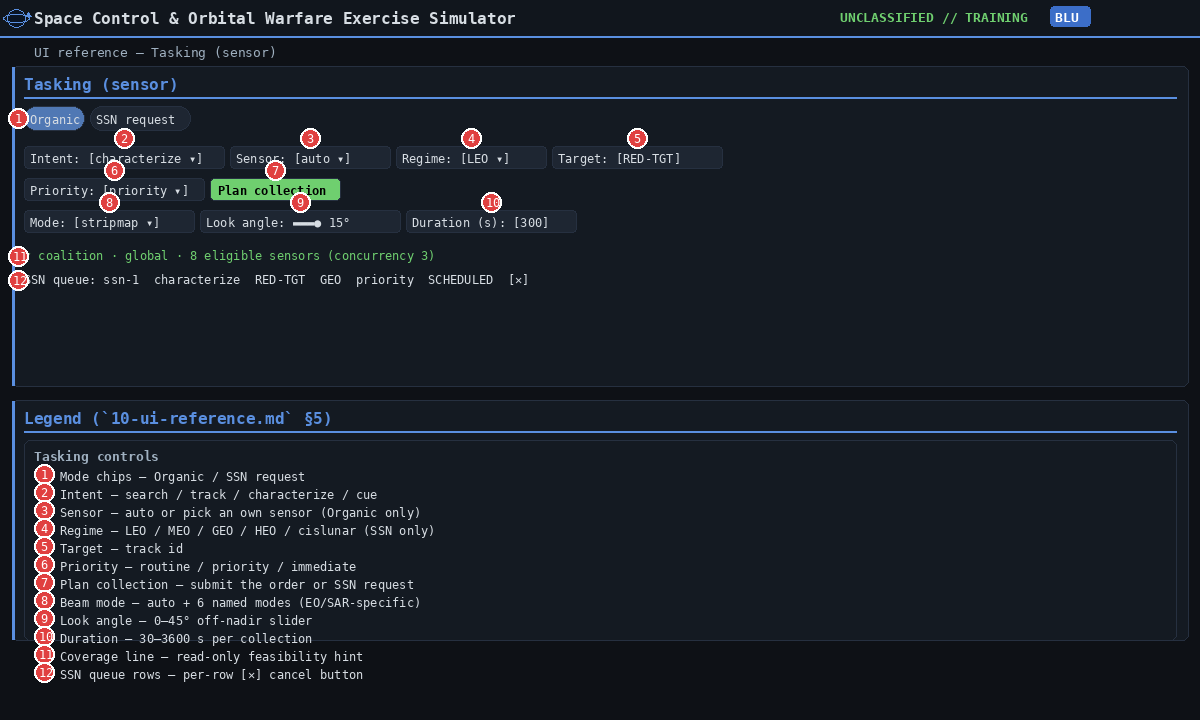
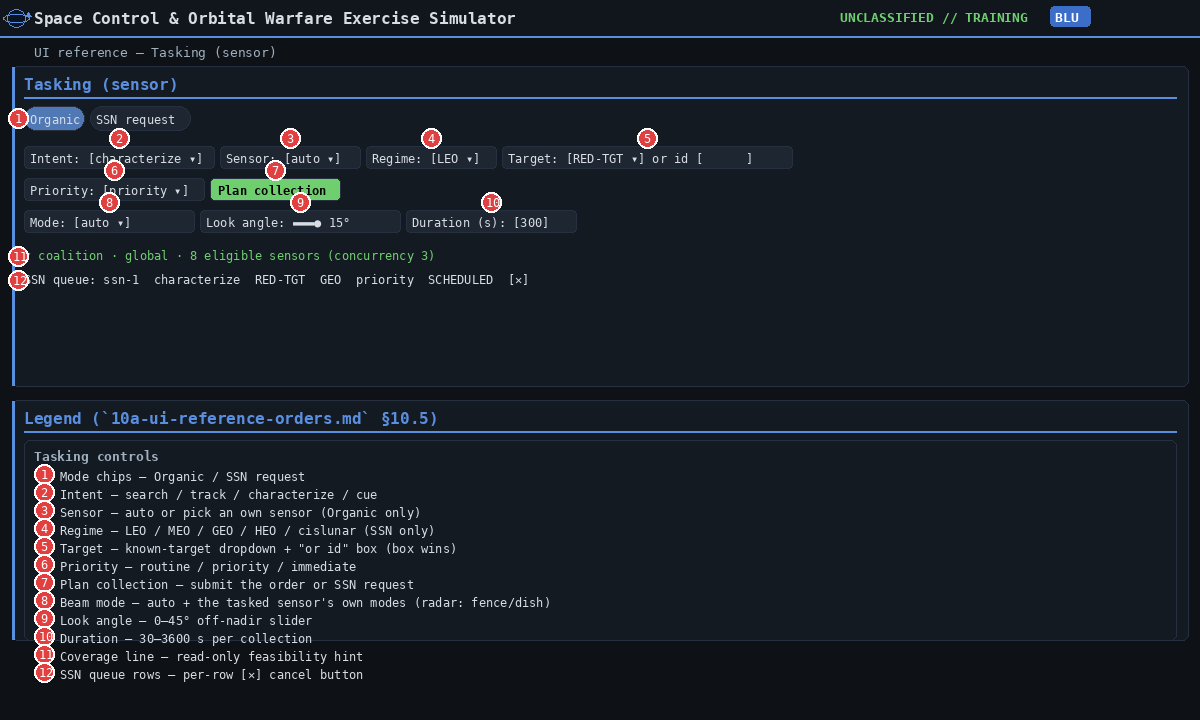
fix(ui,session): IP-1065 — White Cell console and session small fixes
BL-0266 activity timeline reports executed once a queued order's bar has ended (same rule as
list_orders); BL-0141 bulk import refuses a second object resolving to an asset id already
imported from the same file; BL-0196 vignette-inject Fire shows a rejection; BL-0267 vignette
picker groups external vignettes by origin (FR-5410); BL-0145 White-only Save-as-scenario
control; BL-0185 ref-05/ref-06 redrawn with the known-target picker; BL-0261 CLAUDE.md names
FR-6220's full no-cell set. 6 tests (5 failed first); full suite 1007 passed / 3 skipped;
gates green.

Claude-Session: https://claude.ai/code/session_01XhTU8g3o89cDKRN6tzpqjx

diff --git a/spacesim/ui_web/static/app.js b/spacesim/ui_web/static/app.js
@@ -196,7 +196,15 @@ async function loadVignettes() {
       sel.innerHTML = '<option value="" disabled selected>(no vignettes found — check server)</option>';
       return;
     }
-    sel.innerHTML = list.map((v) => `<option value="${esc(v.id)}">${esc(v.title)}</option>`).join("");
+    // IP-1065 (BL-0267, FR-5410) — built-in vignettes first, then one labelled optgroup per
+    // external directory (each entry's `origin`), so external content is a distinct group.
+    const opt = (v) => `<option value="${esc(v.id)}">${esc(v.title)}</option>`;
+    const builtIn = list.filter((v) => !v.origin || v.origin === "built-in");
+    const origins = [...new Set(list.filter((v) => v.origin && v.origin !== "built-in").map((v) => v.origin))];
+    sel.innerHTML = (origins.length
+      ? `<optgroup label="Built-in library">${builtIn.map(opt).join("")}</optgroup>`
+      : builtIn.map(opt).join(""))
+      + origins.map((o) => `<optgroup label="External: ${esc(o)}">${list.filter((v) => v.origin === o).map(opt).join("")}</optgroup>`).join("");
   } catch (e) {
     sel.innerHTML = '<option value="" disabled selected>(failed to load — is the server running?)</option>';
     console.error("loadVignettes failed:", e);
@@ -352,7 +360,30 @@ async function setServerClock(running) {
 }
 async function fireInject() {
   const id = $("inject-sel").value; if (!id || id === "(none)") return;
-  await api.post(`/api/sessions/${SID}/inject`, { inject: id }); await refresh();
+  const out = $("inject-result");
+  // IP-1065 (BL-0196) — a 400 (`inject rejected: …`) is shown, not thrown unhandled.
+  try {
+    await api.post(`/api/sessions/${SID}/inject`, { inject: id });
+    if (out) { out.style.color = ""; out.textContent = `✓ fired ${id}`; }
+  } catch (err) {
+    if (out) { out.style.color = "var(--red)"; out.textContent = "✗ server error: " + (err.message || err); }
+  }
+  await refresh();
+}
+
+// IP-1065 (BL-0145, FR-5510) — save this running session as a new starting vignette.
+async function saveAsScenario() {
+  const out = $("save-scenario-result");
+  if (!SID) { if (out) out.textContent = "No active session."; return; }
+  const vid = (prompt("New vignette id (letters, digits, - or _):") || "").trim();
+  if (!vid) return;
+  const title = (prompt("Title for the new vignette:", vid) || vid).trim();
+  try {
+    const r = await api.post(`/api/sessions/${SID}/save_vignette`, { vignette_id: vid, title, as_scenario: true });
+    if (out) { out.style.color = ""; out.textContent = `✓ saved ${r.path}`; }
+  } catch (err) {
+    if (out) { out.style.color = "var(--red)"; out.textContent = "✗ " + (err.message || err); }
+  }
 }
 
 // ---- FW §11.D.19 — Inject library + builder (White Cell) -----------------
@@ -2151,6 +2182,7 @@ window.addEventListener("DOMContentLoaded", () => {
     const st = await api.get(`/api/sessions/${SID}/clock`);
     await setServerClock(!st.running);
   };
+  if ($("save-scenario-btn")) $("save-scenario-btn").onclick = saveAsScenario;  // IP-1065
   $("fire-inject").onclick = fireInject; $("issue").onclick = issueOrder;
   // FW §11.D.19 — inject builder
   if ($("inject-lib-load")) $("inject-lib-load").onclick = loadInjectTemplate;

diff --git a/spacesim/ui_web/static/index.html b/spacesim/ui_web/static/index.html
@@ -52,6 +52,13 @@
           </div>
         </div>
         <div class="menu-section">
+          <div class="menu-head" title="Save this running session's current state as a new starting vignette (FR-5510). Needs content.user_save_dir in spacesim.config.yaml.">Save as scenario</div>
+          <div class="menu-item-row">
+            <button id="save-scenario-btn" class="white-only" title="Write the current tracks, resources, health and space weather as a new vignette that starts now">💾 Save as scenario…</button>
+          </div>
+          <div id="save-scenario-result" class="muted" style="font-size:11px"></div>
+        </div>
+        <div class="menu-section">
           <div class="menu-head">Observer</div>
           <label class="menu-item-inline" title="What the read-only Observer seat sees (FR-6510) — reused unmodified from White's godview or the named cell's own fog-of-war view">View
             <select id="observer-designation">
@@ -254,6 +261,8 @@
         <select id="inject-sel"></select>
         <button id="fire-inject" title="Fire the selected vignette inject immediately">Fire</button>
       </div>
+      <!-- IP-1065 (BL-0196): a rejected Fire shows the server's reason here. -->
+      <pre id="inject-result" class="muted" style="font-size:11px;margin-top:4px"></pre>
       <!-- FW §11.D.19 — Inject library + builder.  Pick a template, edit any field,
            set a schedule (now or future timestamp), then fire. -->
       <details id="inject-builder" style="margin-top:6px">

diff --git a/spacesim/tests/test_console_small_fixes.py b/spacesim/tests/test_console_small_fixes.py
@@ -1,0 +1,95 @@
+"""IP-1065 — White Cell console and session small fixes.
+
+- BL-0266: the activity timeline reports a queued order whose bar has ended as ``executed``,
+  matching ``SessionManager.list_orders()`` (before, ``Order.status`` was passed through and a
+  past order drew as a dashed queued bar for ever).
+- BL-0141: a bulk-import file with two objects resolving to one asset id keeps the first and
+  refuses the second (before, the second silently overwrote the first and both reported ok).
+- BL-0196 / BL-0267 / BL-0145: console changes the headless suite cannot drive, checked by the
+  repository's static-asset assertion pattern (the browser GUI is unverified headless).
+"""
+from __future__ import annotations
+
+from pathlib import Path
+
+from spacesim.engine.orders import Order
+from spacesim.session.inprocess import InProcessSession
+
+STATIC = Path(__file__).resolve().parents[1] / "ui_web" / "static"
+_TLE1 = "1 25544U 98067A   24001.50000000  .00016717  00000-0  10270-3 0  9994"
+_TLE2 = "2 25544  51.6416 247.4627 0006703 130.5360 325.0288 15.49560570999999"
+_TLE2_B = "2 25544  97.6416 100.4627 0006703 130.5360 325.0288 15.09560570999999"
+
+
+def _downlink_session():
+    api = InProcessSession()
+    sid = api.load_vignette("training-basics")
+    api.start(sid)
+    mgr = api._sessions[sid]
+    mgr.set_clock(False)
+    sat = next(a for a in mgr.world.assets.values() if a.owner == "blue" and a.orbit is not None)
+    gs = next(a for a in mgr.world.assets.values() if a.owner == "blue" and a.location is not None)
+    ack = mgr.issue_order("blue", Order(cell="blue", actor=sat.id, action="downlink",
+                                        params={"via": gs.id}))
+    assert ack.ok and ack.status == "queued", ack.reason
+    return api, sid, mgr, ack, sat.id
+
+
+def _bar(api, sid, actor):
+    feed = api.cell_activity(sid, "blue", past_window_s=6 * 3600, future_window_s=6 * 3600)
+    return [a for a in feed["activities"] if a["kind"] == "order" and a["actor"] == actor]
+
+
+def test_activity_reports_executed_once_the_bar_has_ended():
+    api, sid, mgr, ack, actor = _downlink_session()
+    (before,) = _bar(api, sid, actor)
+    assert before["status"] == "queued"
+    mgr.advance_to(before["end"] + 1_000_000)
+    (after,) = _bar(api, sid, actor)
+    assert after["status"] == "executed"
+    # Same rule as the order queue's display label.
+    (row,) = [o for o in mgr.list_orders("blue") if o["id"] == ack.id]
+    assert row["status"] == "executed"
+
+
+def test_activity_reports_active_while_the_bar_straddles_now():
+    api, sid, mgr, ack, actor = _downlink_session()
+    (before,) = _bar(api, sid, actor)
+    mgr.advance_to(before["start"] + 1_000_000)
+    (during,) = _bar(api, sid, actor)
+    assert during["status"] == "active"
+
+
+def test_bulk_import_duplicate_asset_id_in_one_file_keeps_the_first():
+    api = InProcessSession()
+    sid = api.load_vignette("leo-isr-denial", seed=1)
+    mgr = api._sessions[sid]
+    text = "\n".join(["FIRST", _TLE1, _TLE2, "SECOND", _TLE1, _TLE2_B])
+    reports = mgr.bulk_import("tle", text, {"FIRST": {"asset_id": "DUP-1", "owner": "blue"},
+                                            "SECOND": {"asset_id": "DUP-1", "owner": "blue"}})
+    assert [r["ok"] for r in reports] == [True, False]
+    assert "FIRST" in reports[1]["reason"] and "DUP-1" in reports[1]["reason"]
+    assert mgr.world.assets["DUP-1"].orbit.tle_line2 == _TLE2  # the first object's orbit kept
+
+
+def test_fire_inject_reports_a_rejection():
+    js = (STATIC / "app.js").read_text(encoding="utf-8")
+    start = js.index("async function fireInject")
+    body = js[start:js.index("\n}\n", start)]
+    assert "catch" in body and "inject-result" in body
+
+
+def test_vignette_picker_groups_by_origin():
+    js = (STATIC / "app.js").read_text(encoding="utf-8")
+    start = js.index("async function loadVignettes")
+    body = js[start:js.index("\n}\n", start)]
+    assert "origin" in body and "optgroup" in body
+
+
+def test_save_as_scenario_console_control_is_white_only():
+    html = (STATIC / "index.html").read_text(encoding="utf-8")
+    js = (STATIC / "app.js").read_text(encoding="utf-8")
+    i = html.index('id="save-scenario-btn"')
+    tag = html[html.rindex("<", 0, i):html.index(">", i)]
+    assert "white-only" in tag
+    assert "as_scenario: true" in js

diff --git a/tools/render_manual.py b/tools/render_manual.py
@@ -1467,8 +1467,9 @@ def s_ref_tasking():
     callout(d, px - 6, py + 12, 1)
     # Row 1
     y1 = py + 40
-    fields1 = [("Intent: [characterize ▾]", 200, 2), ("Sensor: [auto ▾]", 160, 3),
-               ("Regime: [LEO ▾]", 150, 4), ("Target: [RED-TGT]", 170, 5)]
+    # IP-1065 (BL-0185): Target is a known-target dropdown plus an "or id" box, as shipped.
+    fields1 = [("Intent: [characterize ▾]", 190, 2), ("Sensor: [auto ▾]", 140, 3),
+               ("Regime: [LEO ▾]", 130, 4), ("Target: [RED-TGT ▾] or id [      ]", 290, 5)]
     cx = px
     for lbl, w, n in fields1:
         d.rounded_rectangle([cx, y1, cx + w, y1 + 22], radius=4, fill=(30,38,50), outline=BORDER)
@@ -1486,7 +1487,7 @@ def s_ref_tasking():
     d.text((cx + 8, y2 + 5), "Plan collection", font=f12b, fill=(0,0,0)); callout(d, cx + 65, y2 - 8, 7)
     # Row 3 (ISR params)
     y3 = y2 + 32
-    fields3 = [("Mode: [stripmap ▾]", 170, 8), ("Look angle: ▬▬▬● 15°", 200, 9), ("Duration (s): [300]", 170, 10)]
+    fields3 = [("Mode: [auto ▾]", 170, 8), ("Look angle: ▬▬▬● 15°", 200, 9), ("Duration (s): [300]", 170, 10)]
     cx = px
     for lbl, w, n in fields3:
         d.rounded_rectangle([cx, y3, cx + w, y3 + 22], radius=4, fill=(30,38,50), outline=BORDER)
@@ -1500,16 +1501,16 @@ def s_ref_tasking():
     d.text((px, y5), "SSN queue: ssn-1  characterize  RED-TGT  GEO  priority  SCHEDULED  [✕]", font=f12, fill=TEXT)
     callout(d, px - 6, y5 + 8, 12)
 
-    lx, ly = panel(d, 12, 400, W - 24, 240, "Legend (`10-ui-reference.md` §5)")
+    lx, ly = panel(d, 12, 400, W - 24, 240, "Legend (`10a-ui-reference-orders.md` §10.5)")
     legend(d, lx, ly, W - 48, 200, "Tasking controls", [
         (1, "Mode chips — Organic / SSN request"),
         (2, "Intent — search / track / characterize / cue"),
         (3, "Sensor — auto or pick an own sensor (Organic only)"),
         (4, "Regime — LEO / MEO / GEO / HEO / cislunar (SSN only)"),
-        (5, "Target — track id"),
+        (5, "Target — known-target dropdown + \"or id\" box (box wins)"),
         (6, "Priority — routine / priority / immediate"),
         (7, "Plan collection — submit the order or SSN request"),
-        (8, "Beam mode — auto + 6 named modes (EO/SAR-specific)"),
+        (8, "Beam mode — auto + the tasked sensor's own modes (radar: fence/dish)"),
         (9, "Look angle — 0–45° off-nadir slider"),
         (10, "Duration — 30–3600 s per collection"),
         (11, "Coverage line — read-only feasibility hint"),
@@ -1535,8 +1536,8 @@ def s_ref_compose():
     y1 = py + 36
     fields = [("Actor: [ISR-EO-1 ▾]", 200, 2),
               ("Action: [observe ▾]",  170, 3),
-              ("Target: [RED-TGT]",    180, 4),
-              ("Params: {\"intent\":\"characterize\"}", 320, 5)]
+              ("Target: [RED-TGT ▾] or id [    ]", 260, 4),
+              ("Params: {\"intent\":\"characterize\"}", 280, 5)]
     cx = px
     for lbl, w, n in fields:
         d.rounded_rectangle([cx, y1, cx + w, y1 + 22], radius=4, fill=(30,38,50), outline=BORDER)
@@ -1565,12 +1566,12 @@ def s_ref_compose():
     d.text((px, y6), "Queue: ord-3 ISR-EO-1 observe RED-TGT  ground_uplink  queued  [✕]", font=f12, fill=TEXT)
     callout(d, px - 6, y6 + 6, 13)
 
-    lx, ly = panel(d, 12, 460, W - 24, 200, "Legend (`10-ui-reference.md` §6)")
+    lx, ly = panel(d, 12, 460, W - 24, 200, "Legend (`10a-ui-reference-orders.md` §10.6)")
     legend(d, lx, ly, W - 48, 160, "Satellite command controls", [
         (1, "Role filter chips — All / Bus / Payload / SDA"),
         (2, "Actor — own assets (filtered by role chip)"),
         (3, "Action — legal actions for the actor's kind"),
-        (4, "Target — string (track id, station id, …)"),
+        (4, "Target — known-target dropdown + \"or id\" box (jam/engage/cyber/observe only)"),
         (5, "Params — JSON; pre-filled per action; live dry-run"),
         (6, "Validity preview — ✓ queue / ✗ reason (read-only)"),
         (7, "Consequence preview — severity / esc / reversible / attr"),

diff --git a/spacesim/session/manager.py b/spacesim/session/manager.py
@@ -521,6 +521,7 @@ class SessionManager:
         from spacesim.content.bulk_import import parse_ccsds_omm, parse_multi_tle
         objects = parse_multi_tle(content) if file_format == "tle" else parse_ccsds_omm(content)
         reports: list[dict] = []
+        imported_as: dict[str, str] = {}   # IP-1065 (BL-0141) — asset id → raw id, this file only
         for obj in objects:
             raw_id = obj["raw_id"]
             assignment = assignments.get(raw_id)
@@ -529,12 +530,19 @@ class SessionManager:
                                  "reason": "no side/template assignment provided"})
                 continue
             asset_id = assignment.get("asset_id", raw_id)
+            if asset_id in imported_as:
+                reports.append({"raw_id": raw_id, "asset_id": asset_id, "ok": False,
+                                 "reason": f"duplicate asset id {asset_id!r} in this file: already "
+                                           f"imported from {imported_as[asset_id]!r}"})
+                continue
             owner = assignment.get("owner", "blue")
             kind = assignment.get("kind", "satellite")
             if obj["format"] == "tle":
                 ok, reason = self._force_add_tle_object(asset_id, obj["line1"], obj["line2"], owner, kind)
             else:
                 ok, reason = self._force_add_omm_object(asset_id, obj, owner, kind)
+            if ok:
+                imported_as[asset_id] = raw_id
             reports.append({"raw_id": raw_id, "asset_id": asset_id, "ok": ok, "reason": reason})
         return reports
 

diff --git a/spacesim/session/inprocess.py b/spacesim/session/inprocess.py
@@ -595,6 +595,10 @@ class InProcessSession:
             status = o.status
             if status == "queued" and start <= now <= end:
                 status = "active"   # the bar straddles now → currently executing
+            elif status == "queued" and o.earliest_window is not None and now > end:
+                # IP-1065 (BL-0266) — the window has passed, so the order has executed: the same
+                # derived label `SessionManager.list_orders()` shows (`Order.status` never holds it).
+                status = "executed"
             activities.append({
                 "kind": "order",
                 "cell": o.cell,

diff --git a/docs/requirements/03-requirements-traceability-matrix.md b/docs/requirements/03-requirements-traceability-matrix.md
@@ -204,7 +204,7 @@ Forward traces: Future Feature · Test · Implementation Package.
 | FR-4110 | White Cell exercise-control leaf | UNASSIGNED | (none directly) | C4, C6 | INT-0002 | UNASSIGNED | `test_content.py::test_vignette_1_loads_and_builds_a_world`, `test_content.py::test_parameter_override_flows_into_roe`, `test_web.py::test_ssn_endpoint_available` *(closed 2026-07-03 via IP-1150, VR-1150)* | `IP-1150` *(closed 2026-07-03 via VR-1150)* |
 | FR-4210 | Seat-to-role assignment | UNASSIGNED | (none directly) | C4, C6 | INT-0002 | UNASSIGNED | `tests/test_session_setup.py` | `IP-1151` *(closed 2026-07-04 via VR-1151)* |
 | FR-4310 | Pause / resume clock control | UNASSIGNED | ADR-0016 | C4, C6 | INT-0002 | UNASSIGNED | `spacesim/tests/test_session.py` *(VR-1060)* | `IP-1060` *(closed 2026-07-04 via VR-1060)* |
-| FR-4410 | Inject authoring / firing | UNASSIGNED | ADR-0005 | C4, C6, C1 | INT-0002, INT-0016 | UNASSIGNED | `spacesim/tests/test_inject_library.py` (incl. `test_time_inject_at_zero_fires_at_start`, `test_rewind_does_not_refire_fired_inject`, `test_rewind_to_start_before_first_advance_keeps_zero_inject`, `test_space_weather_invalid_severity_coerced`, `test_space_weather_clear_alias_and_message` — `IP-1061`), `spacesim/tests/test_session.py` *(VR-1060)*, `spacesim/tests/test_inject_effects_v2.py` (IP-1063: `test_validator_flags_malformed_effects`, `test_validator_accepts_well_formed_fr4430_effects`, `test_fire_inject_rejects_anomaly_on_bus_less_asset_and_changes_nothing`, `test_fire_inject_is_atomic_on_a_partly_invalid_inject`, `test_handler_skips_malformed_effect_without_raising`, `test_skip_path_replays_identically`, `test_all_shipped_injects_and_library_templates_validate_clean`), `spacesim/tests/test_web.py::test_inject_route_rejects_invalid_inject_400` | `IP-1060` *(closed 2026-07-04 via VR-1060)*, `IP-1061` (2026-09-26 — `BL-0062`–`BL-0064` remediation; `VERIFIED` 2026-09-27 via `VR-1061`), `IP-1063` (2026-10-11 — `BL-0129`/`BL-0188` inject fire-time validation, `spacesim/session/manager.py` `validate_inject_effects`; `COMPLETE`, awaiting `09-package-verification`) |
+| FR-4410 | Inject authoring / firing | UNASSIGNED | ADR-0005 | C4, C6, C1 | INT-0002, INT-0016 | UNASSIGNED | `spacesim/tests/test_inject_library.py` (incl. `test_time_inject_at_zero_fires_at_start`, `test_rewind_does_not_refire_fired_inject`, `test_rewind_to_start_before_first_advance_keeps_zero_inject`, `test_space_weather_invalid_severity_coerced`, `test_space_weather_clear_alias_and_message` — `IP-1061`), `spacesim/tests/test_session.py` *(VR-1060)*, `spacesim/tests/test_inject_effects_v2.py` (IP-1063: `test_validator_flags_malformed_effects`, `test_validator_accepts_well_formed_fr4430_effects`, `test_fire_inject_rejects_anomaly_on_bus_less_asset_and_changes_nothing`, `test_fire_inject_is_atomic_on_a_partly_invalid_inject`, `test_handler_skips_malformed_effect_without_raising`, `test_skip_path_replays_identically`, `test_all_shipped_injects_and_library_templates_validate_clean`), `spacesim/tests/test_web.py::test_inject_route_rejects_invalid_inject_400`, `spacesim/tests/test_console_small_fixes.py::test_fire_inject_reports_a_rejection` *(IP-1065)* | `IP-1060` *(closed 2026-07-04 via VR-1060)*, `IP-1061` (2026-09-26 — `BL-0062`–`BL-0064` remediation; `VERIFIED` 2026-09-27 via `VR-1061`), `IP-1063` (2026-10-11 — `BL-0129`/`BL-0188` inject fire-time validation, `spacesim/session/manager.py` `validate_inject_effects`; `COMPLETE`, awaiting `09-package-verification`); IP-1065 *(COMPLETE 2026-10-17 — `app.js` `fireInject` shows a rejection; awaiting `09`)* |
 | FR-4420 *(new 2026-09-26, `BL-0070`/B4; Precondition amended 2026-10-17, `BL-0130`)* | Condition-triggered injects, evaluated deterministically | UNASSIGNED | ADR-0002, ADR-0005, ADR-0006 | C2, C1 | INT-0016 | FS-106 | `spacesim/tests/test_condition_triggered_injects.py` | IP-1062 *(VERIFIED 2026-09-28 via `VR-1062` v2.0, second pass)* |
 | FR-4430 *(new 2026-09-26, `BL-0070`/B4)* | New inject effect types (anomaly, sensor outage, custody loss, scripted manoeuvre) | UNASSIGNED | ADR-0004, ADR-0005 | C2, C1 | INT-0016 | FS-106 | `spacesim/tests/test_inject_effects_v2.py`, `spacesim/tests/test_inject_effects_v2.py` (IP-1063: `test_validator_flags_malformed_effects`, `test_validator_accepts_well_formed_fr4430_effects`, `test_fire_inject_rejects_anomaly_on_bus_less_asset_and_changes_nothing`, `test_fire_inject_is_atomic_on_a_partly_invalid_inject`, `test_handler_skips_malformed_effect_without_raising`, `test_skip_path_replays_identically`, `test_all_shipped_injects_and_library_templates_validate_clean`), `spacesim/tests/test_web.py::test_inject_route_rejects_invalid_inject_400` | IP-1062 *(VERIFIED 2026-09-28 via `VR-1062` v2.0, second pass — the v1.0 `anomaly`/bus H1 defect (`BL-0128`) is fixed: `enter_safe_mode()`/`exit_safe_mode()` are now called, independently reconfirmed including `begin_recovery` acceptance. `BL-0129` (malformed-payload mid-handler exception) remains open, tracked separately)*, `IP-1063` (2026-10-11 — `BL-0129`/`BL-0188` inject fire-time validation, `spacesim/session/manager.py` `validate_inject_effects`; `COMPLETE`, awaiting `09-package-verification`) |
 | FR-4440 *(new 2026-09-27, `BL-0074`/B8)* | Space-weather-index-driven anomaly rate scaling | R131 | ADR-0002, ADR-0006 | C2, C1 | INT-0016 | UNASSIGNED | UNASSIGNED | UNASSIGNED |
@@ -223,15 +223,15 @@ Forward traces: Future Feature · Test · Implementation Package.
 | FR-5170 | Typed per-payload-type parameter sub-schemas | R109, R110, R129, R134, R137 | (none directly) | C1, C5 | (none — Domain Model/content-schema extension) | FS-117 | `spacesim/tests/test_isr.py` (weather/mw `BEAM_MODES` precondition, `IP-1170`, `VERIFIED`), `spacesim/tests/test_typed_payload_params.py` (all 12 tests — the 8 typed sub-models + auto-population + all-19-vignettes regression, `IP-1171`, `VERIFIED`) | IP-1170 *(`VERIFIED` — closes the weather/mw engine-precondition slice, `BL-0053`)*, IP-1171 *(`VERIFIED` 2026-07-12, `VR-1171` — closes the typed-sub-schema/UI-facing scope)* |
 | FR-5180 | Typed bus parameter sub-schemas (power/propulsion) | R111, R112 | (none directly) | C1, C5 | (none directly) | FS-117 | `spacesim/tests/test_typed_payload_params.py::test_bus_power_and_propulsion_overrides_reach_live_fields_not_power_w` *(IP-1171, `VERIFIED`; confirms `Asset.model_validate()` already routes overrides to the live fields, no loader change needed)* | IP-1171 *(`VERIFIED` 2026-07-12, `VR-1171`)* |
 | FR-5210 | TLE force-add import | UNASSIGNED | ADR-0018 | C5, C10 | INT-0013 | UNASSIGNED | UNASSIGNED | `content/` (TLE import) |
-| FR-5220 *(new 2026-09-26, `BL-0067`/B1)* | Bulk TLE and CCSDS OMM multi-object import | UNASSIGNED | ADR-0018 | C5, C10 | INT-0013 *(stretched shape — see `reviews/requirements-update-must-tier-batch.md` Finding 5)* | FS-119 | `spacesim/tests/test_bulk_import.py`, `spacesim/tests/test_bulk_import_session.py`, `spacesim/tests/test_orbit.py::test_mean_to_true_*`, `spacesim/tests/test_web.py::test_bulk_import_tle_route_end_to_end` | IP-1190 *(`VERIFIED` 2026-09-27 via `VR-1190`)* |
+| FR-5220 *(new 2026-09-26, `BL-0067`/B1)* | Bulk TLE and CCSDS OMM multi-object import | UNASSIGNED | ADR-0018 | C5, C10 | INT-0013 *(stretched shape — see `reviews/requirements-update-must-tier-batch.md` Finding 5)* | FS-119 | `spacesim/tests/test_bulk_import.py`, `spacesim/tests/test_bulk_import_session.py`, `spacesim/tests/test_orbit.py::test_mean_to_true_*`, `spacesim/tests/test_web.py::test_bulk_import_tle_route_end_to_end`, `spacesim/tests/test_console_small_fixes.py::test_bulk_import_duplicate_asset_id_in_one_file_keeps_the_first` *(IP-1065)* | IP-1190 *(`VERIFIED` 2026-09-27 via `VR-1190`)*; IP-1065 *(COMPLETE 2026-10-17 — `SessionManager.bulk_import` per-file duplicate refusal; awaiting `09`)* |
 | FR-5310 | Vignette loading | UNASSIGNED | ADR-0007 | C2, C5 | INT-0011 | FS-131 *(2026-10-16)* | `spacesim/tests/test_vignette_load_validation.py` *(IP-1310; template clause still open, `BL-0233`)* | `content/vignette.py` (`validate_vignette`, `VignetteValidationError`, `load_vignette`), `session/inprocess.py` (`load_vignette`), `ui_web/server.py` (`_vignette_load_errors`), `static/app.js` (`loadSession`) — IP-1310 |
 | FR-5311 *(new 2026-10-16, `BL-0235`)* | TLE-sourced orbits parse at load | UNASSIGNED | ADR-0007 | C5, C1 | INT-0011 | FS-131 | `spacesim/tests/test_vignette_load_validation.py::test_malformed_tle_refused_naming_asset`, `::test_good_tle_loads` | `content/vignette.py` (`validate_vignette`) — IP-1310 |
 | FR-5312 *(new 2026-10-16, `BL-0234`; amended run #144, `BL-0241`)* | Space assets carry an orbit, non-cyber terrestrial assets a location | UNASSIGNED | ADR-0007, ADR-0012 | C5 | INT-0011 | FS-131 (v1.1) | `spacesim/tests/test_vignette_load_validation.py::test_satellite_without_orbit_refused`, `::test_jammer_without_location_refused`, `::test_cyber_unit_without_location_loads` | `content/vignette.py` (`validate_vignette`) — IP-1310 |
 | FR-5313 *(new 2026-10-16, `BL-0234`)* | Unique asset/sensor identifiers within a vignette | UNASSIGNED | ADR-0007 | C5 | INT-0011 | FS-131 | `spacesim/tests/test_vignette_load_validation.py::test_duplicate_asset_id_across_forces_refused`, `::test_duplicate_sensor_id_refused` | `content/vignette.py` (`validate_vignette`) — IP-1310 |
 | FR-5314 *(new 2026-10-16, `BL-0234`)* | `roles_needed` names a declared asset or group | UNASSIGNED | ADR-0007 | C5, C2 | INT-0011 | FS-131 | `spacesim/tests/test_vignette_load_validation.py::test_roles_needed_unknown_reference_refused`, `::test_roles_needed_asset_and_group_references_load` | `content/vignette.py` (`validate_vignette`) — IP-1310 |
-| FR-5410 *(new 2026-09-26, `BL-0082`/B16)* | Load vignettes from configured external directories | UNASSIGNED | ADR-0007, ADR-0018 | C2, C5 | INT-0011 | FS-118 | `spacesim/tests/test_content.py` (external-directory enumeration/collision/traversal tests) | IP-1180 *(`VERIFIED` 2026-09-27 via `VR-1180`)* |
+| FR-5410 *(new 2026-09-26, `BL-0082`/B16)* | Load vignettes from configured external directories | UNASSIGNED | ADR-0007, ADR-0018 | C2, C5 | INT-0011 | FS-118 | `spacesim/tests/test_content.py` (external-directory enumeration/collision/traversal tests), `spacesim/tests/test_console_small_fixes.py::test_vignette_picker_groups_by_origin` *(IP-1065)* | IP-1180 *(`VERIFIED` 2026-09-27 via `VR-1180`)*; IP-1065 *(COMPLETE 2026-10-17 — `app.js` `loadVignettes` groups by `origin`; awaiting `09`)* |
 | FR-5420 *(new 2026-09-26, `BL-0082`/B16)* | `save_vignette` writes only to a configured user directory | UNASSIGNED | ADR-0007, ADR-0022 | C2, C5 | INT-0011, INT-0012 | FS-118 | `spacesim/tests/test_vignette_export.py` | IP-1180 *(`VERIFIED` 2026-09-27 via `VR-1180`)* |
-| FR-5510 *(new 2026-09-26, `BL-0071`/B5)* | Save a running session's current state as a new starting vignette | UNASSIGNED | ADR-0022, ADR-0007 | C2, C5, C11 | INT-0011, INT-0012 | FS-120 | `spacesim/tests/test_vignette_export.py`, `spacesim/tests/test_vignette_creator_session.py`, `spacesim/tests/test_web.py::test_save_as_scenario_route_end_to_end` | IP-1200 *(`VERIFIED` 2026-09-27 via `VR-1200`)* |
+| FR-5510 *(new 2026-09-26, `BL-0071`/B5)* | Save a running session's current state as a new starting vignette | UNASSIGNED | ADR-0022, ADR-0007 | C2, C5, C11 | INT-0011, INT-0012 | FS-120 | `spacesim/tests/test_vignette_export.py`, `spacesim/tests/test_vignette_creator_session.py`, `spacesim/tests/test_web.py::test_save_as_scenario_route_end_to_end`, `spacesim/tests/test_console_small_fixes.py::test_save_as_scenario_console_control_is_white_only` *(IP-1065)* | IP-1200 *(`VERIFIED` 2026-09-27 via `VR-1200`)*; IP-1065 *(COMPLETE 2026-10-17 — White-only Session-menu control; awaiting `09`)* |
 | FR-6110 | SessionAPI seam (base) | UNASSIGNED | ADR-0002, ADR-0003 | C4, C2 | INT-0006 | UNASSIGNED | UNASSIGNED | `session/api.py` |
 | FR-6210 | Fog-of-war filtering | UNASSIGNED | ADR-0004 | C4, C2, C1 | INT-0006, INT-0007 | UNASSIGNED | `spacesim/tests/test_scene.py` *(VR-1030 — `IP-1030`'s own `scene.py` custody-track filter contribution to this boundary; the boundary mechanism itself is `session/cells.py`'s, not this package's)* | `session/cells.py` |
 | FR-6220 *(named set enumerated 2026-10-17, `BL-0138`)* | Documented no-cell ground-truth exception | UNASSIGNED | ADR-0004, ADR-0015 | C4, C12, C9 | INT-0001, INT-0005 | UNASSIGNED | UNASSIGNED | `session/cells.py` |

diff --git a/docs/implementation/00-master-build-plan.md b/docs/implementation/00-master-build-plan.md
@@ -158,7 +158,7 @@ package in this plan to reach that state.
 | [IP-1311](packages/IP-1311-vignette-id-scan-robustness.md) | FS-131 v1.1 `FR-5310`/`NFR-1600` Vignette Id Scan Robustness — `load_vignette`'s built-in and external declared-id scans share one helper that skips a file it cannot read, parse, or find a mapping `vignette` block in, so one bad file never turns an unknown id into a 500 or blocks a valid later-sorting vignette (`BL-0252`, REV-TRN-008 F2) | Remediation (forward design) | 🟢 READY | **Authored 2026-10-17** (`07-implementation-planning`, pipeline run #158). Dependencies `IP-1310` and `IP-1180` both `VERIFIED`. **Pre-authorized by the project owner (MSTR-006 §3, standing 2026-10-11 pre-authorization).** |
 | [IP-1021](packages/IP-1021-failure-atomic-event-application.md) | FS-102 v1.1 + ADR-0038 `FR-1120`/`NFR-1600`/`NFR-2600` Failure-Atomic Event Application — a raising handler is rolled back to the replayed state, logged as a no-op failure record, and the advance continues (`BL-0264`, from `BL-0227`) | Remediation (forward design) | 🔵 COMPLETE | **COMPLETE 2026-10-17** (pipeline run #167): failure-atomic `advance_to` + no-op `handler_error` record; 7 tests (all failed first); full suite 992 passed / 3 skipped; both gates green. Awaiting `09-package-verification` from a different session. **IN PROGRESS 2026-10-17** (pipeline run #167, `08-code-implementation`; baseline full suite 985 passed / 3 skipped). **Authored 2026-10-17** (`07-implementation-planning`, pipeline run #166, owner-prioritized `DEFERRED` clearance). Dependencies IP-1020 `VERIFIED`. **Pre-authorized by the project owner (MSTR-006 §3, standing 2026-10-11 pre-authorization).** |
 | [IP-1064](packages/IP-1064-condition-inject-follow-ups.md) | FS-106 v2.1 `FR-4420`/`NFR-1100` Condition-Triggered Inject Follow-Ups — measured value in the firing record, start-anchored tick grids after a rewind, one log scan per tick (`BL-0131`/`BL-0132`/`BL-0133`) | Remediation (forward design) | 🟢 READY | **Authored 2026-10-17** (`07-implementation-planning`, pipeline run #166, owner-prioritized `DEFERRED` clearance). Dependencies IP-1062 `VERIFIED`. **Pre-authorized by the project owner (MSTR-006 §3, standing 2026-10-11 pre-authorization).** |
-| [IP-1065](packages/IP-1065-console-and-session-small-fixes.md) | FS-106/FS-102 v1.1/FS-118 v1.1/FS-120/FS-119 `FR-4410`/`FR-3310`/`FR-5410`/`FR-5510`/`FR-5220`/`NFR-3400` White Cell Console and Session Small Fixes — Fire reports rejections, timeline shows executed, picker groups external vignettes, save-as-scenario control, bulk-import duplicate ids refused, ref-05/06 redrawn, CLAUDE.md no-cell list (`BL-0196`/`0266`/`0267`/`0145`/`0141`/`0185`/`0261`) | Remediation (forward design) | 🔵 IN PROGRESS | **IN PROGRESS 2026-10-17** (pipeline run #169, `08-code-implementation`; baseline full suite 1001 passed / 3 skipped). **Authored 2026-10-17** (`07-implementation-planning`, pipeline run #166, owner-prioritized `DEFERRED` clearance). Dependencies IP-1063/IP-1180/IP-1190/IP-1200 `VERIFIED`. **Pre-authorized by the project owner (MSTR-006 §3, standing 2026-10-11 pre-authorization).** |
+| [IP-1065](packages/IP-1065-console-and-session-small-fixes.md) | FS-106/FS-102 v1.1/FS-118 v1.1/FS-120/FS-119 `FR-4410`/`FR-3310`/`FR-5410`/`FR-5510`/`FR-5220`/`NFR-3400` White Cell Console and Session Small Fixes — Fire reports rejections, timeline shows executed, picker groups external vignettes, save-as-scenario control, bulk-import duplicate ids refused, ref-05/06 redrawn, CLAUDE.md no-cell list (`BL-0196`/`0266`/`0267`/`0145`/`0141`/`0185`/`0261`) | Remediation (forward design) | 🔵 COMPLETE | **COMPLETE 2026-10-17** (pipeline run #169): timeline `executed`, bulk-import duplicate refusal, Fire shows rejections, picker optgroups by origin, White-only save-as-scenario control, ref-05/06 redrawn, CLAUDE.md no-cell set; 6 tests (5 failed first); full suite 1007 passed / 3 skipped; gates green. Manual impact filed. Awaiting `09-package-verification` (different session). **IN PROGRESS 2026-10-17** (pipeline run #169, `08-code-implementation`; baseline full suite 1001 passed / 3 skipped). **Authored 2026-10-17** (`07-implementation-planning`, pipeline run #166, owner-prioritized `DEFERRED` clearance). Dependencies IP-1063/IP-1180/IP-1190/IP-1200 `VERIFIED`. **Pre-authorized by the project owner (MSTR-006 §3, standing 2026-10-11 pre-authorization).** |
 | [IP-1131](packages/IP-1131-verification-coverage-follow-ups.md) | FS-113/FS-115/FS-102 v1.1 + NFR-3400 `FR-6510`/`FR-4210`/`FR-3310`/`NFR-3400` Verification-Coverage Follow-Ups (test-only) — Observer rejection on `/roles/assign` and `/observer/view`, SSN-kind rewind parity, training `Sources:`-anchor test (`BL-0023`/`0024`/`0259`/`0260`) | Remediation (forward design) | 🟢 READY | **Authored 2026-10-17** (`07-implementation-planning`, pipeline run #166, owner-prioritized `DEFERRED` clearance). Dependencies IP-1130/IP-1151/IP-1040 `VERIFIED`. **Pre-authorized by the project owner (MSTR-006 §3, standing 2026-10-11 pre-authorization).** |
 | [IP-1223](packages/IP-1223-beam-mode-follows-sensor-modality.md) | FS-122 v1.2 `FR-1610`/`NFR-1600` Beam-Mode Choice Follows the Sensor's Modality — a foreign mode is refused `invalid_param`; the console lists the sensor's own modes (`BL-0265`) | Remediation (forward design) | 🔵 COMPLETE | **COMPLETE 2026-10-17** (pipeline run #168): foreign beam mode refused `invalid_param` (explicit + auto), auto filtered to sensors offering the mode, console list built from the tasked sensor; 9 tests (8 failed first); two pre-existing tests that tasked a radar with a SAR name moved to `dish` (the intended FS-122 v1.2 change); full suite 1001 passed / 3 skipped; both gates green. Awaiting `09-package-verification` (different session). **IN PROGRESS 2026-10-17** (pipeline run #168, `08-code-implementation`; baseline full suite 992 passed / 3 skipped). **Authored 2026-10-17** (`07-implementation-planning`, pipeline run #166, owner-prioritized `DEFERRED` clearance). Dependencies IP-1222/IP-1041 `VERIFIED`. **Pre-authorized by the project owner (MSTR-006 §3, standing 2026-10-11 pre-authorization).** |
 
@@ -856,6 +856,7 @@ day (MSTR-006 §3, project owner's direct instruction, batched together).** `IP-
 (`IP-1240`/`IP-1250`/`IP-1270`/`IP-1280`/`IP-1290`) stay `READY`, authorized, queued for
 implementation in this same session.
 
+- **Package Status (2026-10-17, run #169, `08-code-implementation` on `IP-1065`):** **48 `VERIFIED`, 3 `COMPLETE` (`IP-1021`, `IP-1223`, `IP-1065`, awaiting 09), 3 `READY` (`IP-1311`, `IP-1064`, `IP-1131`), 1 `BLOCKED` (`IP-1160`) — 55 packages total.**
 - **Package Status (2026-10-17, run #168, `08-code-implementation` on `IP-1223`):** **48 `VERIFIED`, 2 `COMPLETE` (`IP-1021`, `IP-1223`, awaiting 09), 4 `READY` (`IP-1311`, `IP-1064`, `IP-1065`, `IP-1131`), 1 `BLOCKED` (`IP-1160`) — 55 packages total.** No package depends on `IP-1223`.
 - **Package Status (2026-10-17, run #167, `08-code-implementation` on `IP-1021`):** **48 `VERIFIED`, 1 `COMPLETE` (`IP-1021`, awaiting 09), 5 `READY` (`IP-1311`, `IP-1064`, `IP-1065`, `IP-1131`, `IP-1223`), 1 `BLOCKED` (`IP-1160`, authorization) — 55 packages total.** No package depends on `IP-1021`.
 - **Package Status (2026-10-17, run #166, `IP-1021`/`IP-1064`/`IP-1065`/`IP-1131`/`IP-1223` added):** **48 `VERIFIED`, 0 `COMPLETE`, 6 `READY` (`IP-1311`, `IP-1021`, `IP-1064`, `IP-1065`, `IP-1131`, `IP-1223`, all pre-authorized), 1 `BLOCKED` (`IP-1160`, authorization) — 55 packages total.**

diff --git a/docs/implementation/packages/INDEX.md b/docs/implementation/packages/INDEX.md
@@ -83,7 +83,7 @@ unauthorized FS.
 | [IP-1311](IP-1311-vignette-id-scan-robustness.md) | Vignette Id Scan Robustness: One Unreadable File Never Turns a Lookup Into a 500 (`BL-0252`) | [FS-131](../../features/FS-131-load-time-vignette-validation.md) v1.1 `FR-5310`, `NFR-1600` | Remediation (forward design) | 🟢 READY — authored 2026-10-17 (pipeline run #158); dependencies `IP-1310`/`IP-1180` `VERIFIED`; pre-authorized (MSTR-006 §3, standing 2026-10-11) |
 | [IP-1021](IP-1021-failure-atomic-event-application.md) | Failure-Atomic Event Application — a raising handler is rolled back to the replayed state, logged as a no-op failure record, and the advance continues (`BL-0264`, from `BL-0227`) | [FS-102](../../features/FS-102-command-scheduling.md) (FS-102 v1.1 + ADR-0038) `FR-1120`/`NFR-1600`/`NFR-2600` | Remediation (forward design) | 🔵 COMPLETE |
 | [IP-1064](IP-1064-condition-inject-follow-ups.md) | Condition-Triggered Inject Follow-Ups — measured value in the firing record, start-anchored tick grids after a rewind, one log scan per tick (`BL-0131`/`BL-0132`/`BL-0133`) | [FS-106](../../features/FS-106-white-cell-dashboard.md) (FS-106 v2.1) `FR-4420`/`NFR-1100` | Remediation (forward design) | 🟢 READY — authored 2026-10-17 (pipeline run #166); dependencies `VERIFIED`; pre-authorized (MSTR-006 §3, standing 2026-10-11) |
-| [IP-1065](IP-1065-console-and-session-small-fixes.md) | White Cell Console and Session Small Fixes — Fire reports rejections, timeline shows executed, picker groups external vignettes, save-as-scenario control, bulk-import duplicate ids refused, ref-05/06 redrawn, CLAUDE.md no-cell list (`BL-0196`/`0266`/`0267`/`0145`/`0141`/`0185`/`0261`) | [FS-118](../../features/FS-118-external-vignette-directories.md) (FS-106/FS-102 v1.1/FS-118 v1.1/FS-120/FS-119) `FR-4410`/`FR-3310`/`FR-5410`/`FR-5510`/`FR-5220`/`NFR-3400` | Remediation (forward design) | 🔵 IN PROGRESS |
+| [IP-1065](IP-1065-console-and-session-small-fixes.md) | White Cell Console and Session Small Fixes — Fire reports rejections, timeline shows executed, picker groups external vignettes, save-as-scenario control, bulk-import duplicate ids refused, ref-05/06 redrawn, CLAUDE.md no-cell list (`BL-0196`/`0266`/`0267`/`0145`/`0141`/`0185`/`0261`) | [FS-118](../../features/FS-118-external-vignette-directories.md) (FS-106/FS-102 v1.1/FS-118 v1.1/FS-120/FS-119) `FR-4410`/`FR-3310`/`FR-5410`/`FR-5510`/`FR-5220`/`NFR-3400` | Remediation (forward design) | 🔵 COMPLETE |
 | [IP-1131](IP-1131-verification-coverage-follow-ups.md) | Verification-Coverage Follow-Ups (test-only) — Observer rejection on `/roles/assign` and `/observer/view`, SSN-kind rewind parity, training `Sources:`-anchor test (`BL-0023`/`0024`/`0259`/`0260`) | [FS-113](../../features/FS-113-observer-read-only-access.md) (FS-113/FS-115/FS-102 v1.1 + NFR-3400) `FR-6510`/`FR-4210`/`FR-3310`/`NFR-3400` | Remediation (forward design) | 🟢 READY — authored 2026-10-17 (pipeline run #166); dependencies `VERIFIED`; pre-authorized (MSTR-006 §3, standing 2026-10-11) |
 | [IP-1223](IP-1223-beam-mode-follows-sensor-modality.md) | Beam-Mode Choice Follows the Sensor's Modality — a foreign mode is refused `invalid_param`; the console lists the sensor's own modes (`BL-0265`) | [FS-122](../../features/FS-122-sensor-modality-models.md) (FS-122 v1.2) `FR-1610`/`NFR-1600` | Remediation (forward design) | 🔵 COMPLETE |
 | [IP-1220](IP-1220-sensor-modality-models.md) | Sensor Modality Models (`BL-0073`/`BL-0083`, items B7/B17) | [FS-122](../../features/FS-122-sensor-modality-models.md) `FR-1610`-`FR-1660` | Forward design | ✅ VERIFIED 2026-09-28 via [`VR-1220`](../verification/VR-1220-sensor-modality-models.md) — 1 Low finding (own doc left unupdated). |

diff --git a/ROADMAP.md b/ROADMAP.md
@@ -565,7 +565,7 @@ no longer the document of record; see the Master Build Plan's "Relationship to t
 | IP-1311 | Vignette Id Scan Robustness (one unreadable file never turns an id lookup into a 500) | `implementation/packages/IP-1311-vignette-id-scan-robustness.md` | FS-131 `FR-5310`/`NFR-1600` | Remediation (forward design) | 🟢 READY — authored 2026-10-17 (run #158), pre-authorized (MSTR-006 §3, standing 2026-10-11); closes `BL-0252` when `VERIFIED` |
 | IP-1021 | Failure-Atomic Event Application | `implementation/packages/IP-1021-failure-atomic-event-application.md` | FS-102 v1.1 + ADR-0038 `FR-1120`/`NFR-1600`/`NFR-2600` | Remediation (forward design) | 🔵 COMPLETE |
 | IP-1064 | Condition-Triggered Inject Follow-Ups | `implementation/packages/IP-1064-condition-inject-follow-ups.md` | FS-106 v2.1 `FR-4420`/`NFR-1100` | Remediation (forward design) | 🟢 READY — authored 2026-10-17 (run #166), pre-authorized (MSTR-006 §3, standing 2026-10-11) |
-| IP-1065 | White Cell Console and Session Small Fixes | `implementation/packages/IP-1065-console-and-session-small-fixes.md` | FS-106/FS-102 v1.1/FS-118 v1.1/FS-120/FS-119 `FR-4410`/`FR-3310`/`FR-5410`/`FR-5510`/`FR-5220`/`NFR-3400` | Remediation (forward design) | 🔵 IN PROGRESS |
+| IP-1065 | White Cell Console and Session Small Fixes | `implementation/packages/IP-1065-console-and-session-small-fixes.md` | FS-106/FS-102 v1.1/FS-118 v1.1/FS-120/FS-119 `FR-4410`/`FR-3310`/`FR-5410`/`FR-5510`/`FR-5220`/`NFR-3400` | Remediation (forward design) | 🔵 COMPLETE |
 | IP-1131 | Verification-Coverage Follow-Ups (test-only) | `implementation/packages/IP-1131-verification-coverage-follow-ups.md` | FS-113/FS-115/FS-102 v1.1 + NFR-3400 `FR-6510`/`FR-4210`/`FR-3310`/`NFR-3400` | Remediation (forward design) | 🟢 READY — authored 2026-10-17 (run #166), pre-authorized (MSTR-006 §3, standing 2026-10-11) |
 | IP-1223 | Beam-Mode Choice Follows the Sensor's Modality | `implementation/packages/IP-1223-beam-mode-follows-sensor-modality.md` | FS-122 v1.2 `FR-1610`/`NFR-1600` | Remediation (forward design) | 🔵 COMPLETE |
 

diff --git a/CLAUDE.md b/CLAUDE.md
@@ -197,8 +197,10 @@ single facilitator can spread globe / map / fleet / order / AAR across multiple 
 **LAN trust model (load-bearing).** The cell selector (`White` / `Blue` / `Red`) is **client-side
 trust** — there is no per-cell authentication. The fog-of-war filter is applied by
 `SessionAPI` / `CellController` to every cell-scoped response, but the no-cell ground-truth
-endpoints (`/godview`, `/eventlog`, `/save`, `/aar*`, `/objectives`) deliberately expose ground
-truth without a cell binding. **Deploy only on a trusted LAN with cooperative participants.** A
+endpoints (`/godview`, `/eventlog`, `/save`, `/aar*`, `/objectives`, `/assessment`,
+`/ephemeris/truth`, the Observer view, and the White Cell facilitation/authoring reads — the full
+named set is `FR-6220` in `docs/requirements/01-functional-requirements.md`) deliberately expose
+ground truth without a cell binding. **Deploy only on a trusted LAN with cooperative participants.** A
 hostile participant on the LAN can read another cell's belief state through `/scene/{cell}` or
 `/telemetry/{cell}/...` by sending the other cell's name in the URL. This is by design for the
 v1 PME training context (everyone in the room is on the same team learning together) and is
